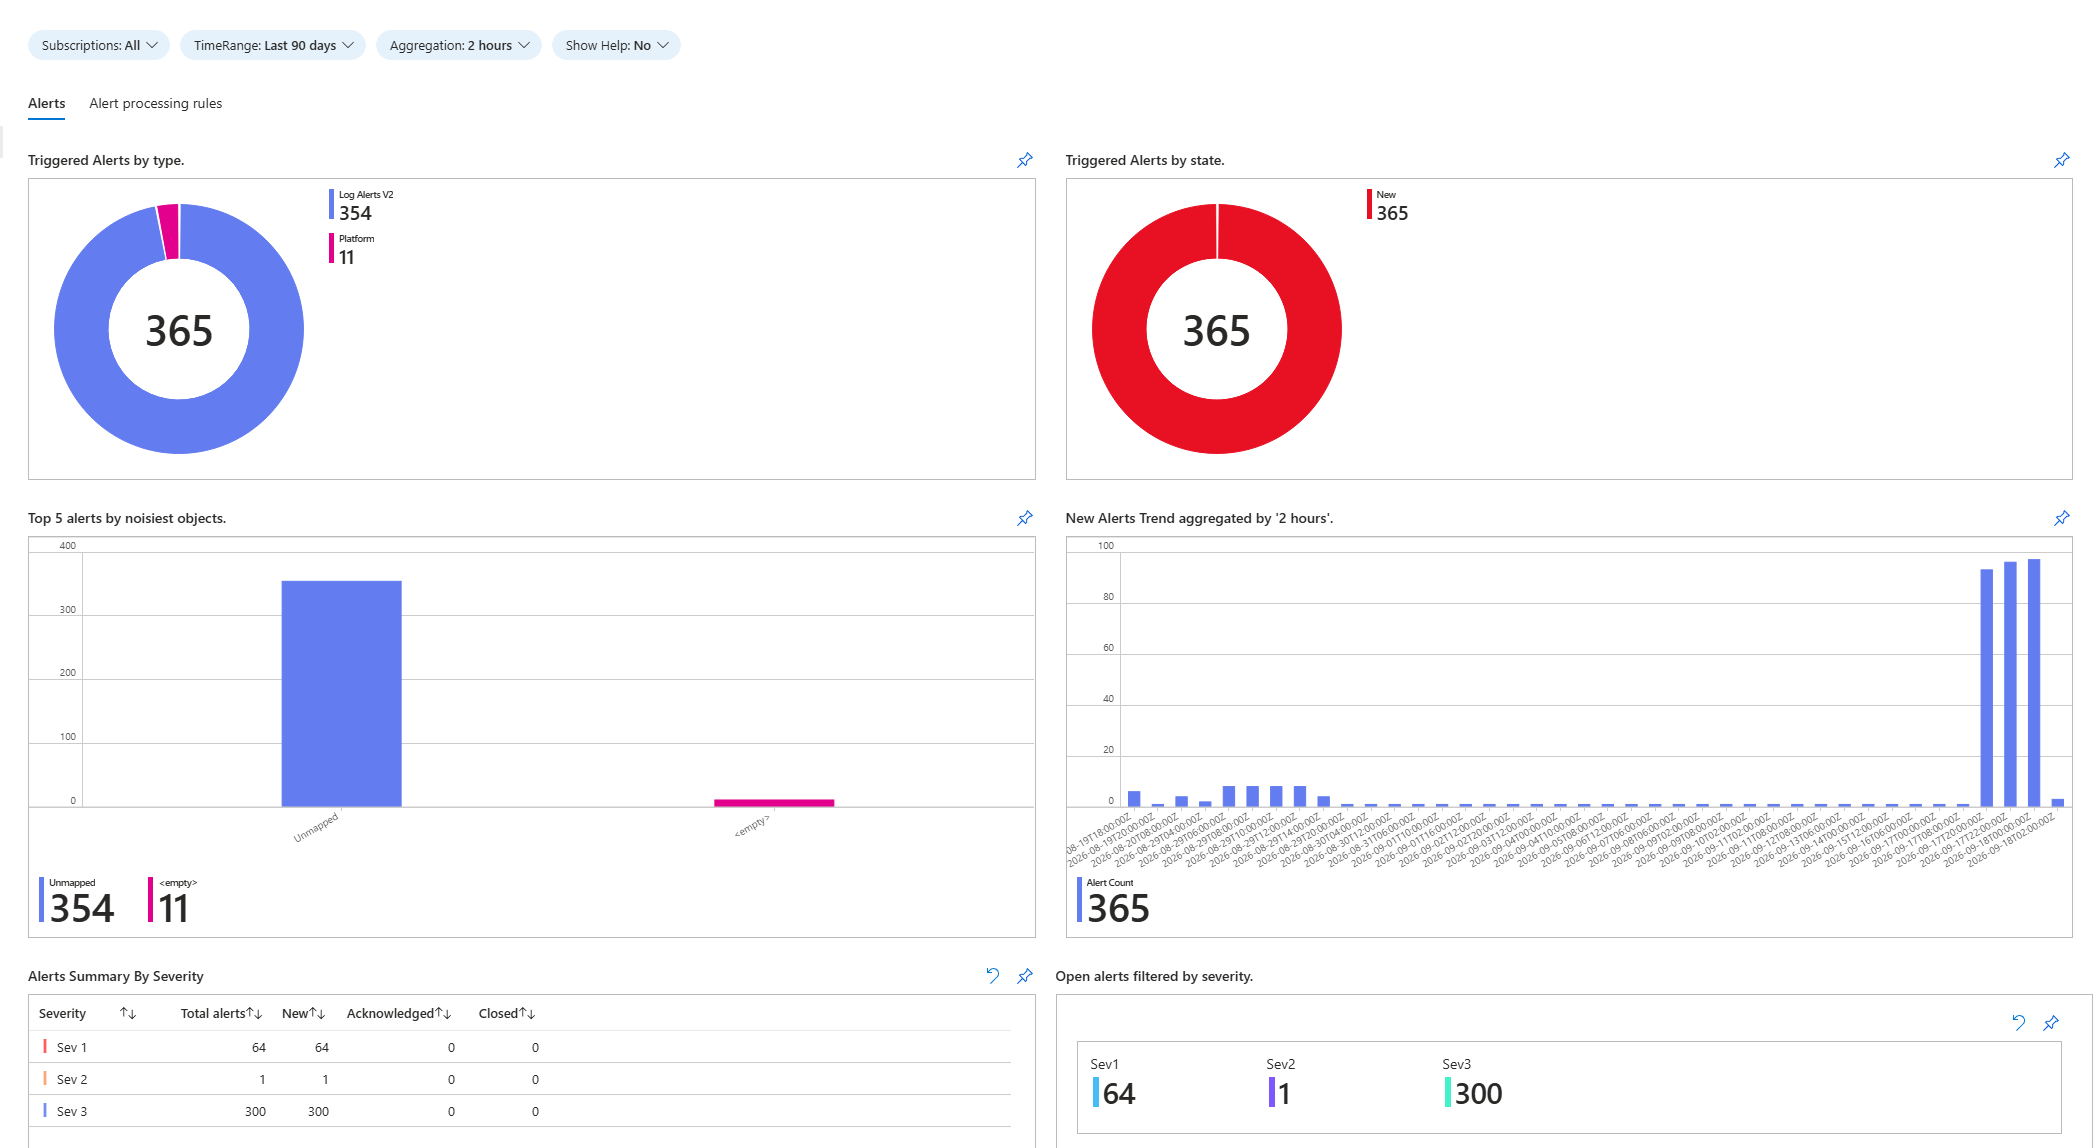
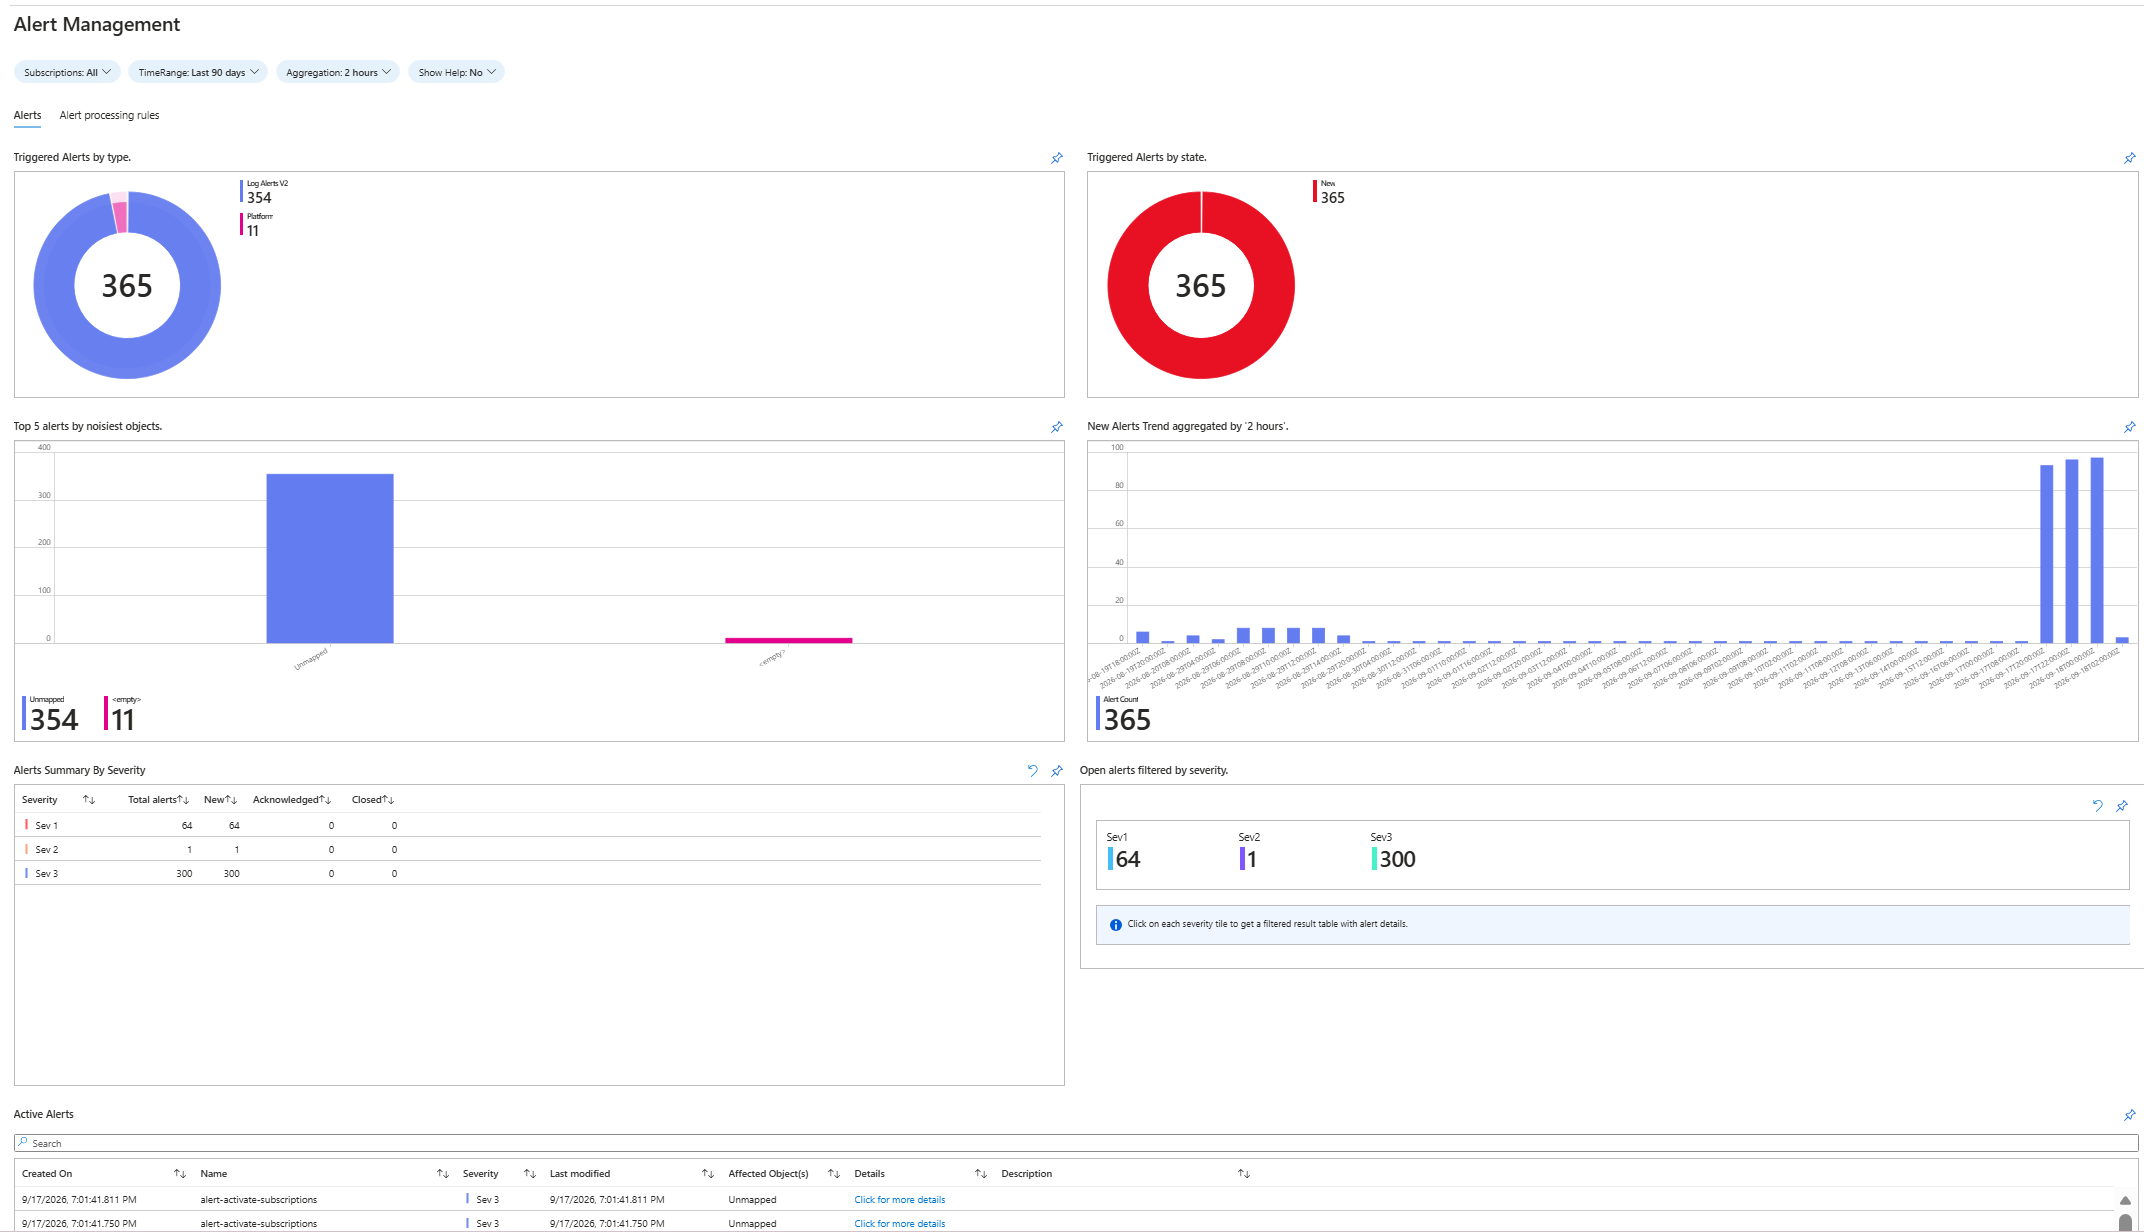
docs: use fuller Alert Management screenshot for the Alerts workbook (adds Active Alerts table); note it in README

diff --git a/README.md b/README.md
@@ -52,14 +52,16 @@ not a cost tile). It is Azure Monitor's inventory of **alerts that fired** in th
 the selected window, so you can confirm your **budget-enforcement rules** and **token-spike alerts**
 are actually firing. In this example (last 90 days) there are 365 alerts:
 
-- **By type:** 354 **Log Alerts V2** (the `alert-suspend-sub` / `alert-activate-sub` scheduled-query
-  rules that drive the budget auto-disable, evaluating every 5 minutes and firing when a team crosses
-  or drops back under its cost quota) plus 11 **Platform** metric alerts (for example the token-spike
-  alert).
+- **By type:** 354 **Log Alerts V2** (the `alert-suspend-subscriptions` / `alert-activate-subscriptions`
+  scheduled-query rules that drive the budget auto-disable, evaluating every 5 minutes and firing when
+  a team crosses or drops back under its cost quota) plus 11 **Platform** metric alerts (for example the
+  token-spike alert).
 - **By state:** all 365 are **New**, because nothing was acknowledged or closed.
 - **Noisiest object:** "Unmapped" (354), because log-query alerts do not attach to a single resource.
 - **Trend:** the burst at the right is when test traffic pushed the deliberately tiny sample quotas
   over the line, so the suspend/activate rules fired in a flurry.
+- **Active Alerts** (bottom table) lists the individual firings, so you can see exactly which rule
+  fired, when, and on which object.
 
 In production, set realistic quotas and an **action group** so these rules enforce quietly instead of
 generating noise.
